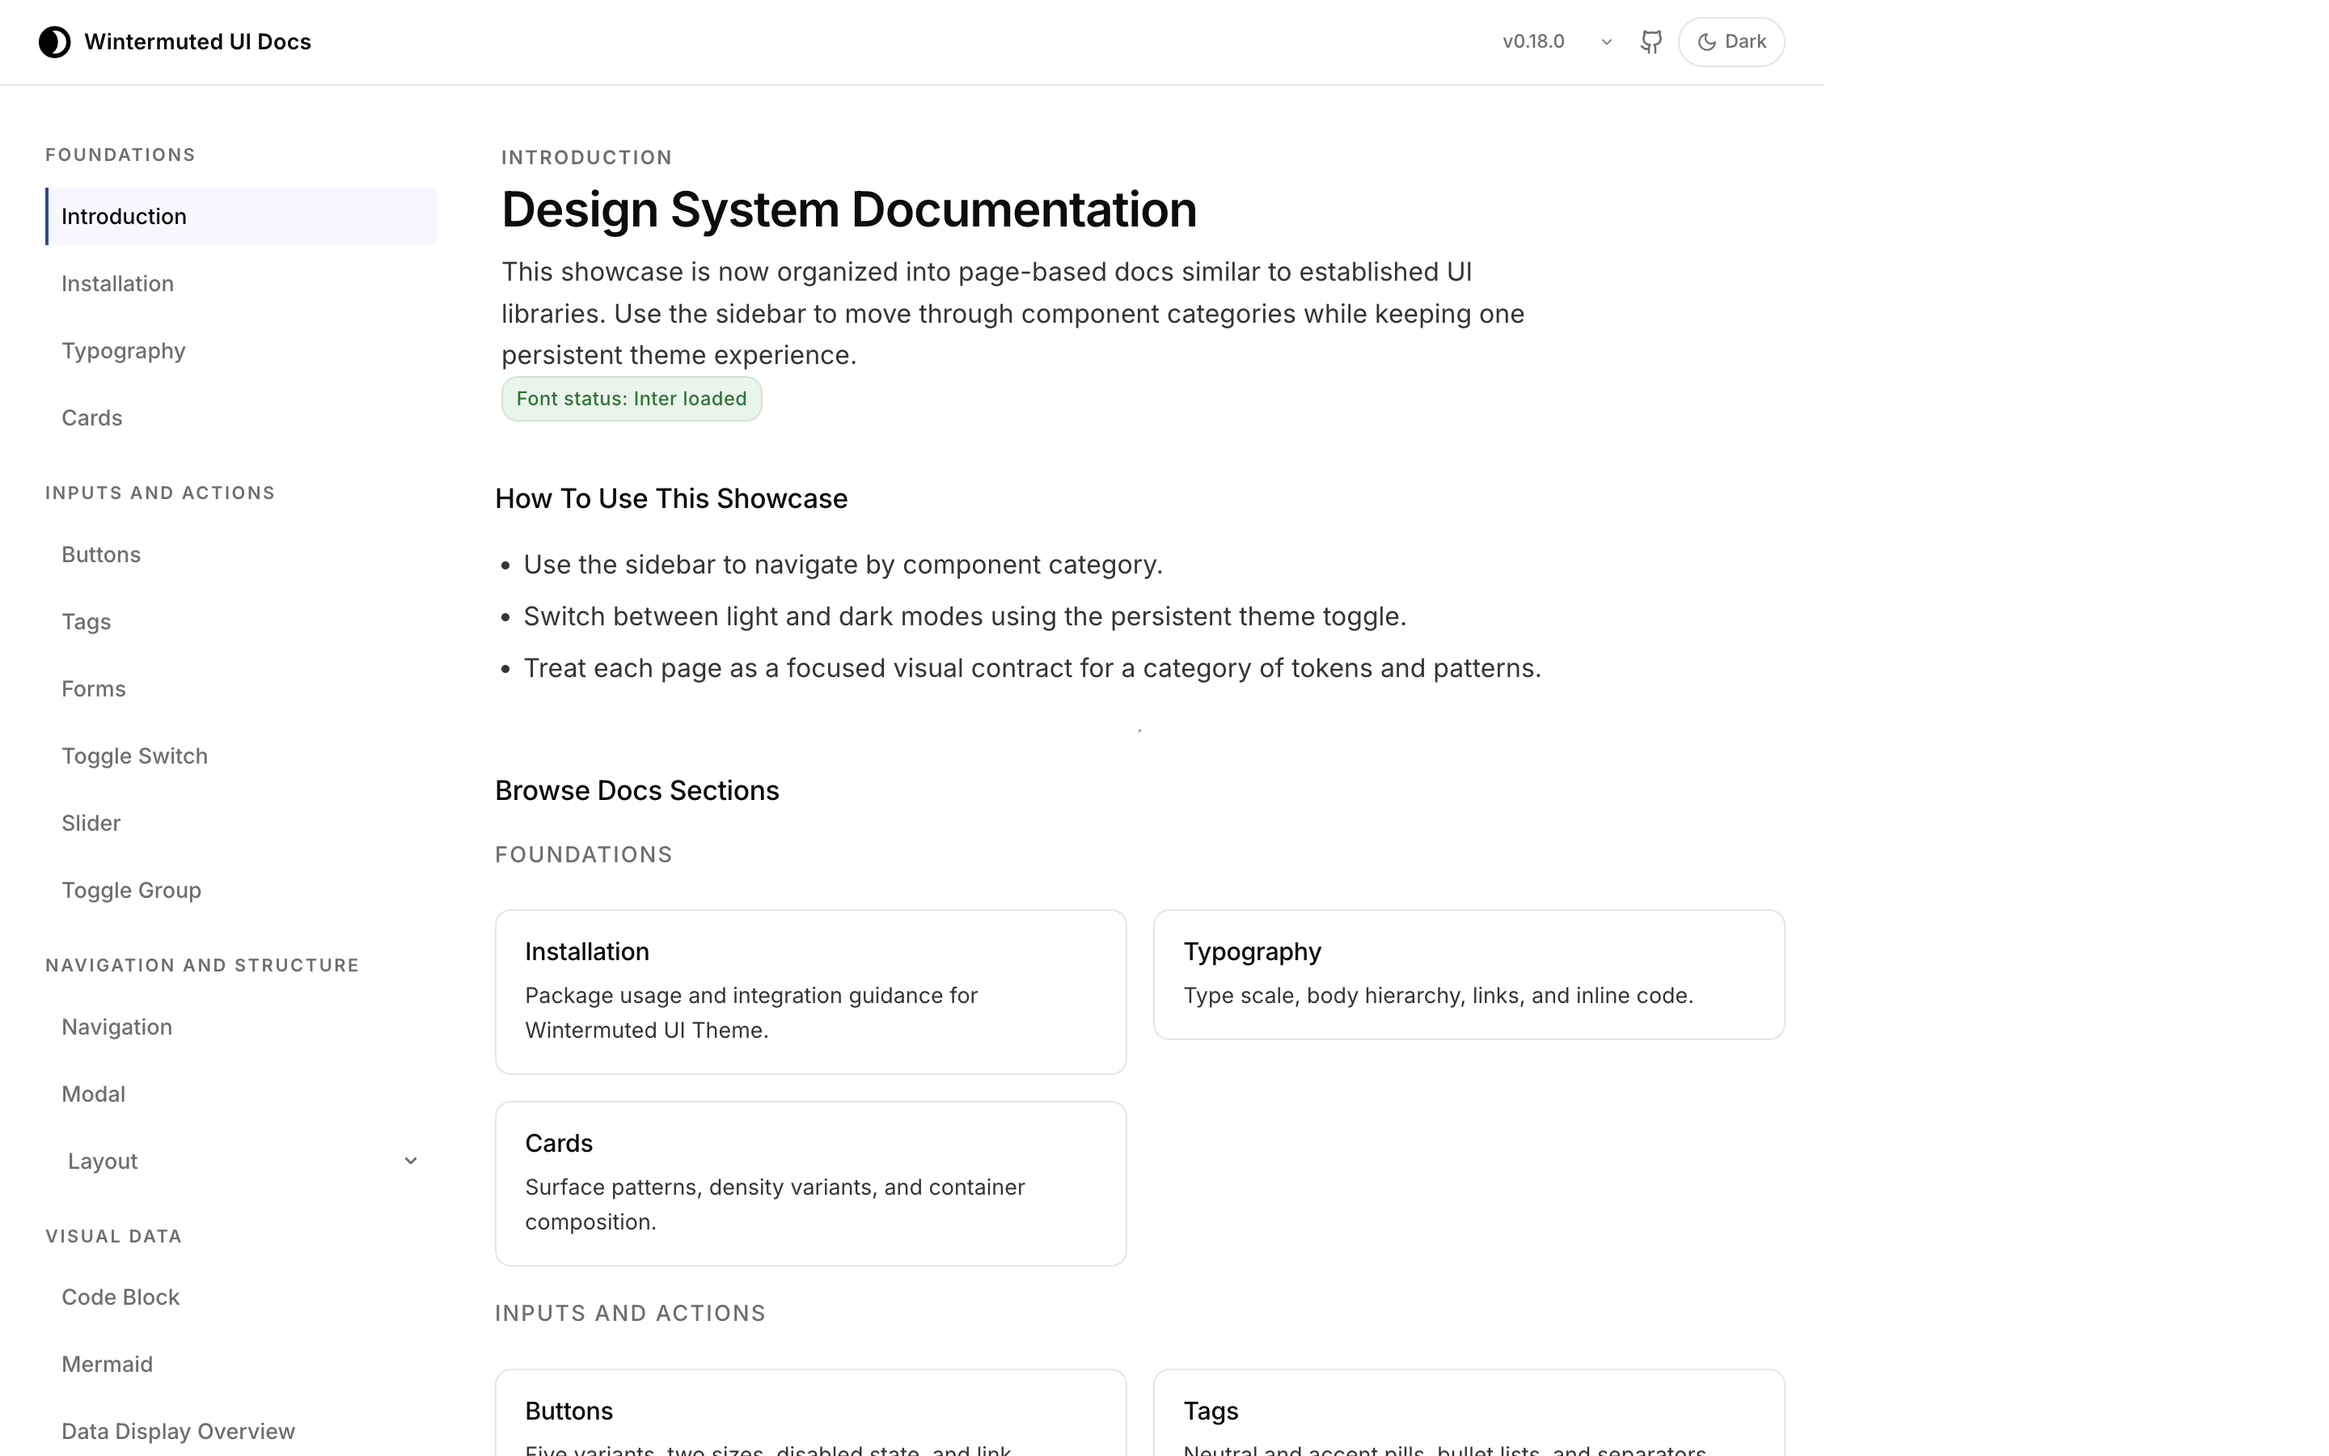
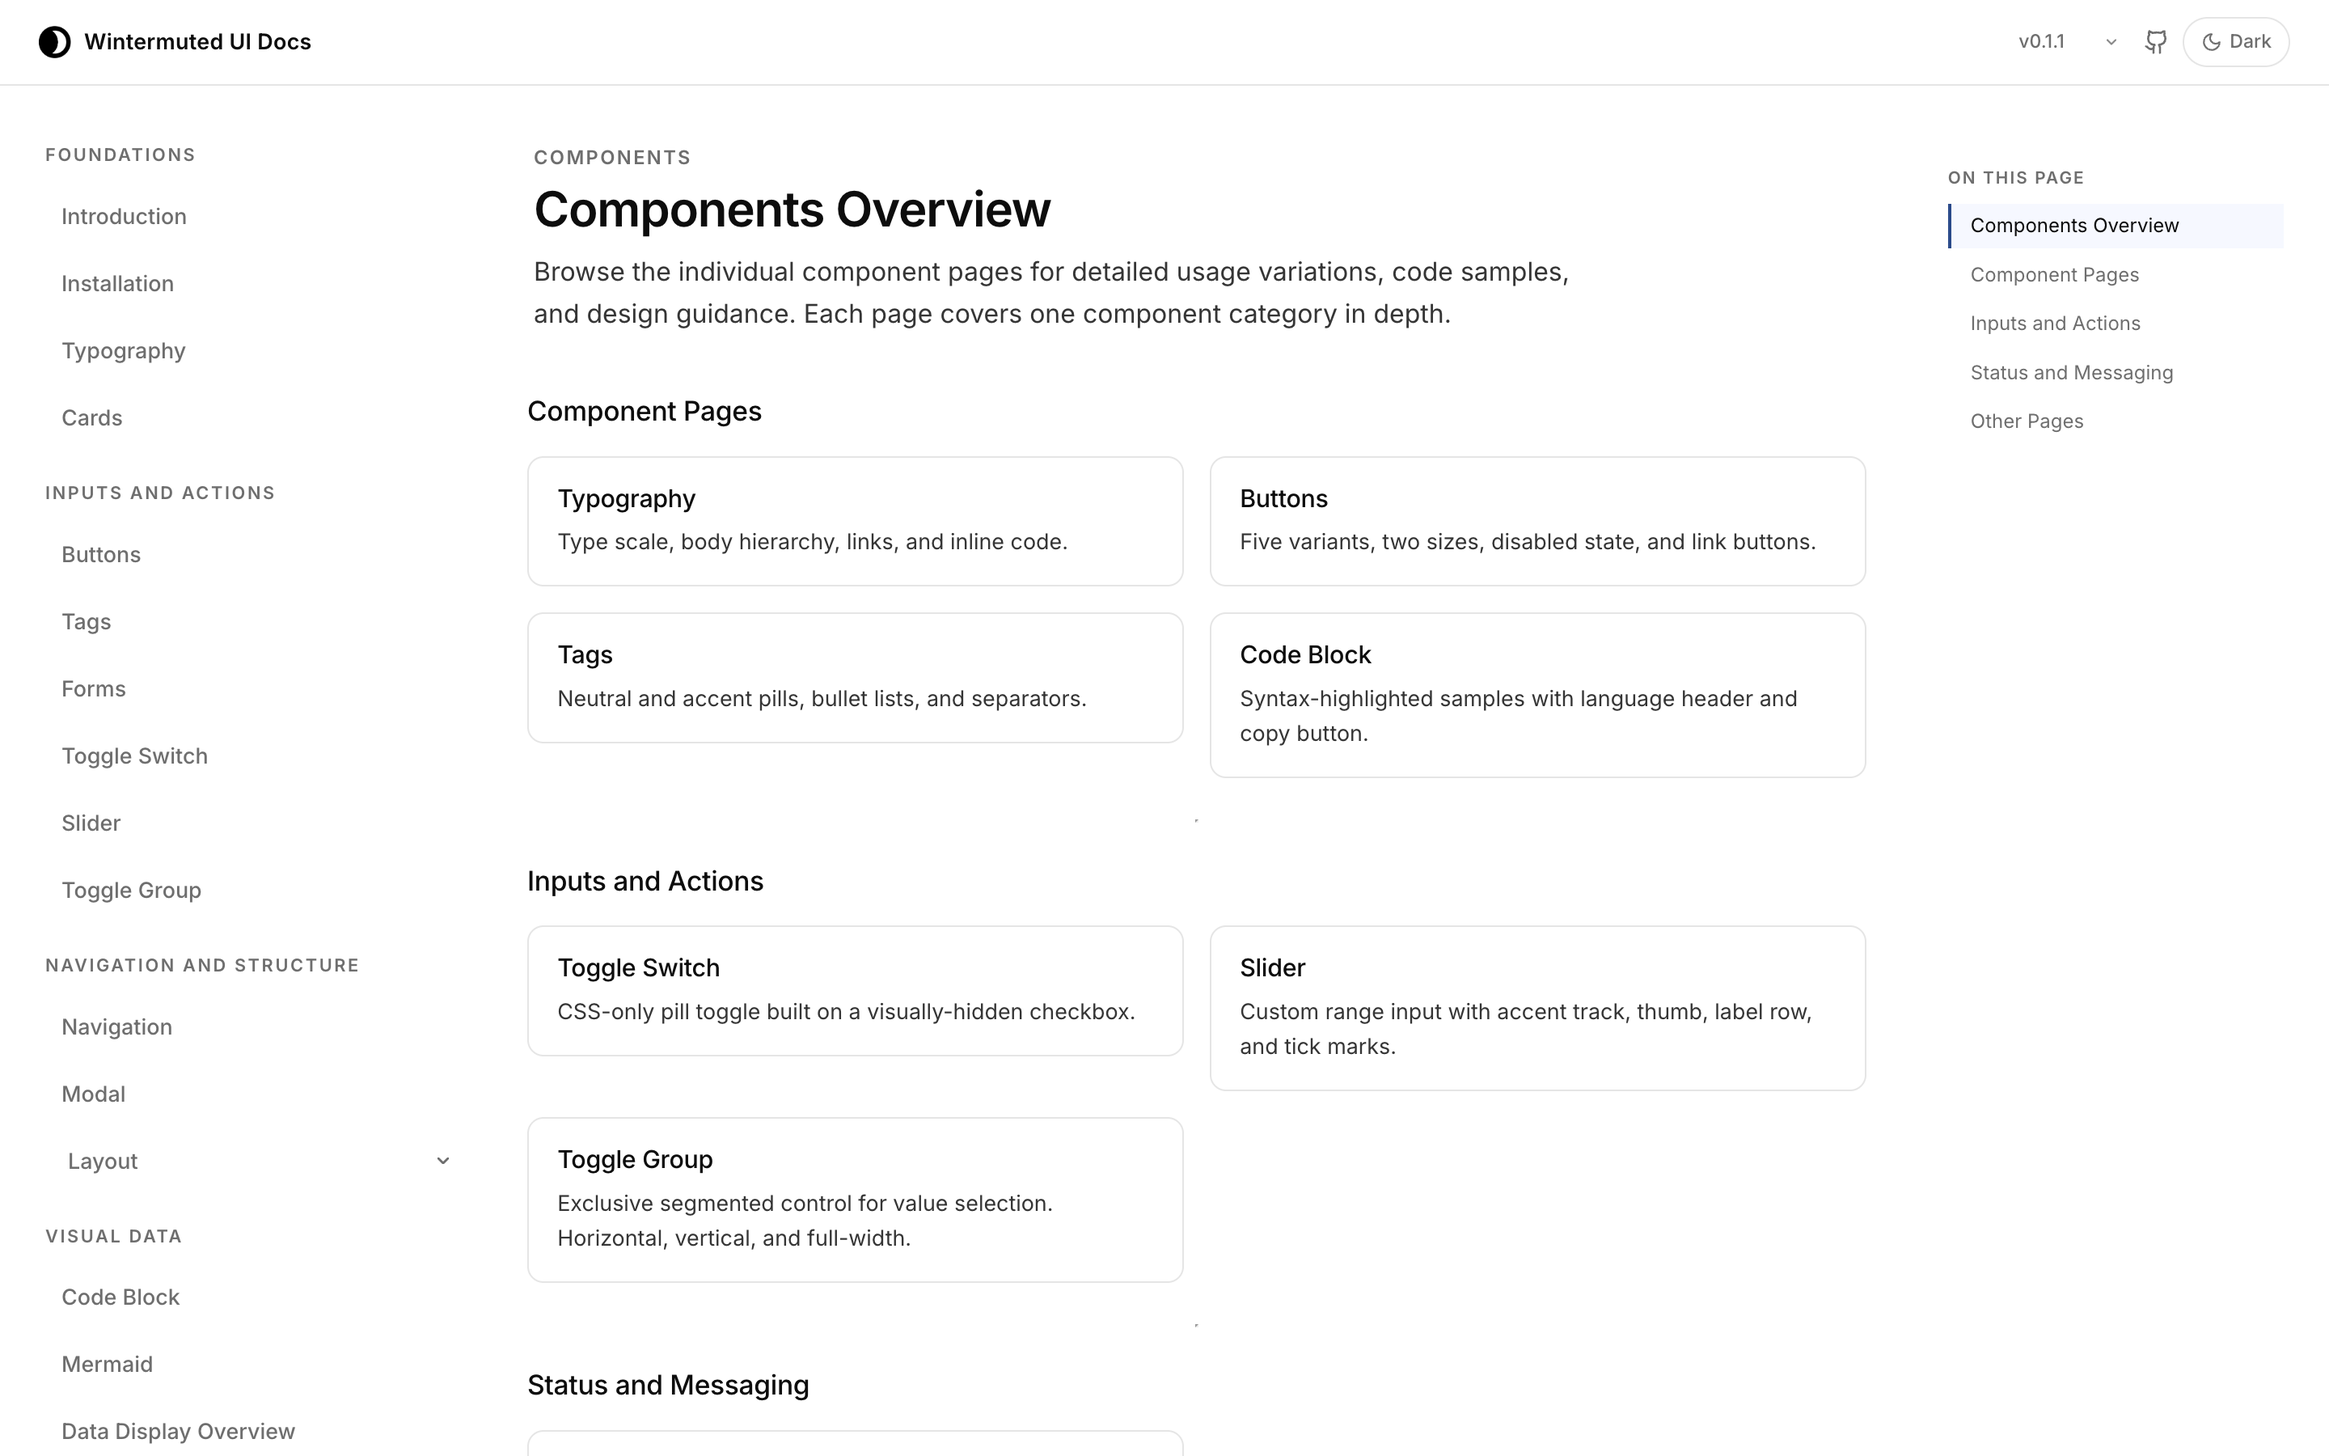
feat(projects): refresh previews and add showcase links

diff --git a/_includes/projects-home.html b/_includes/projects-home.html
@@ -141,9 +141,8 @@
     <article class="project-card-item" data-project-types="tooling">
       <div class="card project-card">
         <div class="project-card-media project-card-media-placeholder project-card-media--tooling">
-          <a href="{{ site.baseurl }}/projects/wintermuted-ui-theme/" class="project-card-media-link project-card-media-link--placeholder" aria-label="View Wintermuted UI Theme project details">
-            <i class="fas fa-tools" aria-hidden="true"></i>
-            <span>Tooling</span>
+          <a href="{{ site.baseurl }}/projects/wintermuted-ui-theme/" class="project-card-media-link" aria-label="View Wintermuted UI Theme project details">
+            <img src="{{ site.baseurl }}/assets/img/projects/wintermuted-ui-theme/docs-home.png" class="project-card-image" alt="Wintermuted UI Theme docs home preview">
           </a>
         </div>
         <div class="card-body">
@@ -162,9 +161,8 @@
     <article class="project-card-item" data-project-types="tooling">
       <div class="card project-card">
         <div class="project-card-media project-card-media-placeholder project-card-media--tooling">
-          <a href="{{ site.baseurl }}/projects/jsonresume-theme-wintermuted/" class="project-card-media-link project-card-media-link--placeholder" aria-label="View jsonresume-theme-wintermuted project details">
-            <i class="fas fa-tools" aria-hidden="true"></i>
-            <span>Tooling</span>
+          <a href="{{ site.baseurl }}/projects/jsonresume-theme-wintermuted/" class="project-card-media-link" aria-label="View jsonresume-theme-wintermuted project details">
+            <img src="{{ site.baseurl }}/assets/img/projects/jsonresume-theme-wintermuted/preview-summary.png" class="project-card-image" alt="jsonresume-theme-wintermuted preview showing the resume summary and experience sections">
           </a>
         </div>
         <div class="card-body">

diff --git a/projects/wintermuted-ui-theme.md b/projects/wintermuted-ui-theme.md
@@ -12,41 +12,160 @@ project_links:
     url: https://github.com/wintermuted/ui-theme
   - label: npm Package
     url: https://www.npmjs.com/package/@wintermuted/ui-theme
+  - label: Showcase Website
+    url: https://wintermuted.github.io/ui-theme/showcase/
 tech_stack:
   - CSS
   - JavaScript
   - npm
 screenshots:
-  - src: /assets/img/projects/wintermuted-ui-theme/wintermuted-ui-theme.png
-    alt: Wintermuted UI Theme showcase with component examples
-    caption: Component showcase and style system
+  - src: /assets/img/projects/wintermuted-ui-theme/docs-home.png
+    alt: Wintermuted UI docs home page
+    caption: Docs home and navigation overview
+  - src: /assets/img/projects/wintermuted-ui-theme/docs-installation.png
+    alt: Wintermuted UI installation documentation page
+    caption: Installation and usage guidance
+  - src: /assets/img/projects/wintermuted-ui-theme/docs-components.png
+    alt: Wintermuted UI components overview page
+    caption: Component index and category coverage
+  - src: /assets/img/projects/wintermuted-ui-theme/docs-forms.png
+    alt: Wintermuted UI forms documentation page
+    caption: Form controls, states, and examples
+  - src: /assets/img/projects/wintermuted-ui-theme/docs-tables.png
+    alt: Wintermuted UI tables documentation page
+    caption: Table patterns and data-display styling
+  - src: /assets/img/projects/wintermuted-ui-theme/docs-sample-data.png
+    alt: Wintermuted UI sample data showcase page
+    caption: End-to-end stat, chart, and table composition
+  - src: /assets/img/projects/wintermuted-ui-theme/docs-gallery.png
+    alt: Wintermuted UI gallery documentation page
+    caption: Gallery and lightbox patterns
 ---
 
 ## Overview
 
-A shared CSS and JavaScript design system package with tokens, base styles, and reusable components.
+A shared CSS and JavaScript design system package that standardizes visual language across Wintermuted projects. The package provides design tokens, base resets, and component styles that can be consumed as a full theme or as modular CSS entry points.
+
+The goal is to keep UI quality consistent while reducing styling drift between repositories such as the blog, CV, and supporting documentation sites.
 
 ## Problem
 
-Explain the consistency or velocity problems this design system addressed.
+Before this package, each project maintained small, divergent CSS stacks. That created three recurring problems:
+
+- UI inconsistencies in spacing, color usage, and component states between projects.
+- Slower iteration because visual fixes had to be reimplemented in multiple repos.
+- Harder maintenance when accessibility or theming improvements needed coordinated updates.
+
+The design-system package addressed this by centralizing the primitives and publishing them as a reusable dependency.
 
 ## What I Built
 
-Describe the package contents, key components, and intended consumer workflow.
+I built a package-first theme system with a static docs surface for validation and onboarding.
+
+### Core package scope
+
+- Design tokens in CSS custom properties for color, text hierarchy, spacing, radius, and shadows.
+- Base element styles for typography and form defaults.
+- Reusable components for cards, buttons, badges, tags, side navigation, code blocks, gallery patterns, and supporting layout primitives.
+- Light and dark theme support via the `data-theme` attribute.
+
+### Consumption model
+
+- Full import: one-line import for fast adoption.
+- Modular imports: selective component CSS for narrow use cases.
+- Local linking workflow for testing changes in consumer repos before publishing.
+
+### Documentation workflow
+
+- Multi-page static docs in `showcase/` for component-specific examples.
+- Real screenshot gallery used by this project page to document current visual states.
+- Local server workflow for rapid review and capture updates.
+
+## Current Implementation Scope
+
+Today the package is optimized for static and app-shell style interfaces where consistent tokens and lightweight component classes are more important than framework-specific abstractions.
+
+The strongest current coverage areas are:
+
+- Documentation and content-heavy pages (cards, typography, navigation).
+- Data presentation patterns (tables, chart wrappers, gallery tiles).
+- Form controls and status messaging for operational UIs.
+
+## Integration Workflow
+
+Typical adoption flow in a consumer app:
+
+1. Install `@wintermuted/ui-theme`.
+2. Import the full bundle (or selected module files) at the app entry point.
+3. Apply `wm-` component classes in templates and map app-specific selectors to theme tokens.
+4. Validate light/dark appearance and interaction states in local preview.
+5. Capture screenshots and update docs when component behavior changes.
 
 ## Technical Architecture
 
-Document how tokens, component styles, and exports are organized.
+The architecture is split into three layers: token foundation, component styling, and distribution/validation workflows.
+
+```mermaid
+flowchart TD
+   A[Design Tokens<br/>styles/tokens.css] --> B[Base Layer<br/>styles/base.css]
+   B --> C[Component Layer<br/>styles/components/*.css]
+   C --> D[Package Entry Points<br/>index.css + exports map]
+   D --> E[Consumer Repositories<br/>blog / cv / docs]
+```
+
+Tokens are the single source of visual truth. Base styles provide predictable defaults, and component styles compose on top without requiring framework-specific runtime code.
+
+### Build and distribution model
+
+```mermaid
+flowchart LR
+   A[Source CSS in ui-theme repo] --> B[Versioned npm package]
+   B --> C[Install in consumer repo]
+   C --> D[Import full theme or modules]
+   D --> E[Rendered UI]
+   A --> F[Showcase docs pages]
+   F --> G[Screenshot capture and visual review]
+```
+
+This keeps publishing lightweight while still supporting visual QA through the showcase.
+
+### Documentation architecture
+
+```mermaid
+flowchart TD
+   A[showcase/index.html] --> B[Category pages]
+   B --> C[Component examples]
+   C --> D[Code snippets and usage notes]
+   C --> E[Screenshot gallery]
+   E --> F[Project pages in blog]
+```
+
+The docs are intentionally static so they can run locally without build complexity and publish cleanly to GitHub Pages.
 
 ## Key Decisions
 
-List major design-system decisions and rationale.
+- CSS-first implementation over JS-heavy component runtime: Keeps footprint low and compatibility broad across static and framework-driven apps.
+- Token-driven theming with `data-theme` switching: Enables consistent dark mode behavior without duplicating component definitions.
+- Multi-page documentation instead of a single long showcase: Improves discoverability, QA focus, and screenshot maintenance.
+- Local linking workflow for dependent repos: Enables fast integration testing before publishing package updates.
 
 ## Challenges
 
-Capture implementation and adoption challenges.
+The main challenge was balancing consistency with flexibility. Consumer projects needed a stable visual baseline, but still required room for project-specific layout behavior.
+
+Other recurring challenges included:
+
+- Preventing style leakage between component classes.
+- Keeping docs examples realistic enough to validate true usage patterns.
+- Synchronizing screenshot updates across the docs repo and project pages.
 
 ## Outcomes
 
-Share product/team impact and adoption indicators.
+The package now serves as a shared UI foundation for Wintermuted projects and has reduced visual divergence across repos.
 
+Observed impact so far:
+
+- Faster UI iteration due to reusable component patterns.
+- Cleaner onboarding for new pages using docs-backed examples.
+- Improved consistency in dark/light theming behavior.
+- Better architecture communication via diagram-backed documentation.

diff --git a/projects/jsonresume-theme-wintermuted.md b/projects/jsonresume-theme-wintermuted.md
@@ -12,6 +12,8 @@ project_links:
     url: https://github.com/wintermuted/jsonresume-theme-wintermuted
   - label: npm Package
     url: https://www.npmjs.com/package/jsonresume-theme-wintermuted
+  - label: Showcase Website
+    url: https://wintermuted.github.io/jsonresume-theme-wintermuted/examples/preview.html
 tech_stack:
   - JSON Resume
   - Handlebars
@@ -19,11 +21,11 @@ tech_stack:
   - npm
 screenshots:
   - src: /assets/img/projects/jsonresume-theme-wintermuted/preview-summary.png
-    alt: Sample JSON Resume preview showing the summary and experience sections rendered in the wintermuted theme
-    caption: Full resume preview with the summary and experience sections in view
+    alt: Sample JSON Resume preview in dark mode showing the summary and experience sections rendered in the wintermuted theme
+    caption: Dark-mode resume preview with the summary and experience sections in view
   - src: /assets/img/projects/jsonresume-theme-wintermuted/preview-projects.png
-    alt: Sample JSON Resume preview focusing on the projects section and portfolio-style storytelling
-    caption: Projects section rendered as a clear portfolio-style showcase
+    alt: Sample JSON Resume preview in dark mode focusing on the projects section and portfolio-style storytelling
+    caption: Dark-mode projects section rendered as a clear portfolio-style showcase
   - src: /assets/img/projects/jsonresume-theme-wintermuted/personal-cv-summary.png
     alt: Close-up of the resume summary and experience sections with stronger hierarchy
     caption: Summary and experience sections with stronger hierarchy and spacing
@@ -38,13 +40,14 @@ A custom JSON Resume theme package built to keep the personal CV presentation po
 
 [JSON Resume](https://jsonresume.org/) is an open standard for resume data where content is stored as structured JSON. Its purpose is to separate resume content from presentation so the same source can be rendered across different themes, tools, and outputs.
 
-This package extends the shared [`@wintermuted/ui-theme`](https://www.npmjs.com/package/@wintermuted/ui-theme) design system so resume layouts inherit the same foundational tokens and component styling used across Wintermuted properties.
+This package extends the shared [`@wintermuted/ui-theme`](/projects/wintermuted-ui-theme/) design system so resume layouts inherit the same foundational tokens and component styling used across Wintermuted properties.
 
 ### Featured capabilities
 
 - Stronger section hierarchy for summaries, experience, projects, and skills
 - Cleaner spacing and typography to make the resume feel more editorial and intentional
 - Flexible project presentation that supports both work-related and open-source stories
+- Built-in light/dark mode toggle so readers can choose the presentation mode that feels best for their environment
 - Local preview workflow driven by sample data so the theme can be refined quickly
 - A publishable npm package that keeps the theme reusable across different resume renders
 
@@ -54,11 +57,11 @@ A resume needs to feel intentional and cohesive, but default themes often leave 
 
 ## What I Built
 
-I created a reusable theme package with custom Handlebars partials, stylesheet refinements, and a lightweight local preview workflow so the CV could be revised quickly without sacrificing presentation quality.
+I created a reusable theme package with custom Handlebars partials, stylesheet refinements, a light/dark mode toggle, and a lightweight local preview workflow so the CV could be revised quickly without sacrificing presentation quality.
 
 ## Technical Architecture
 
-The theme is structured around the [JSON Resume project](https://jsonresume.org/), using its template model with section-specific partials and CSS styling that can be published and consumed through npm. It extends [`@wintermuted/ui-theme`](https://www.npmjs.com/package/@wintermuted/ui-theme) for shared visual tokens and baseline component styles.
+The theme is structured around the [JSON Resume project](https://jsonresume.org/), using its template model with section-specific partials and CSS styling that can be published and consumed through npm. It extends [`@wintermuted/ui-theme`](/projects/wintermuted-ui-theme/) for shared visual tokens and baseline component styles.
 
 ```mermaid
 flowchart LR
